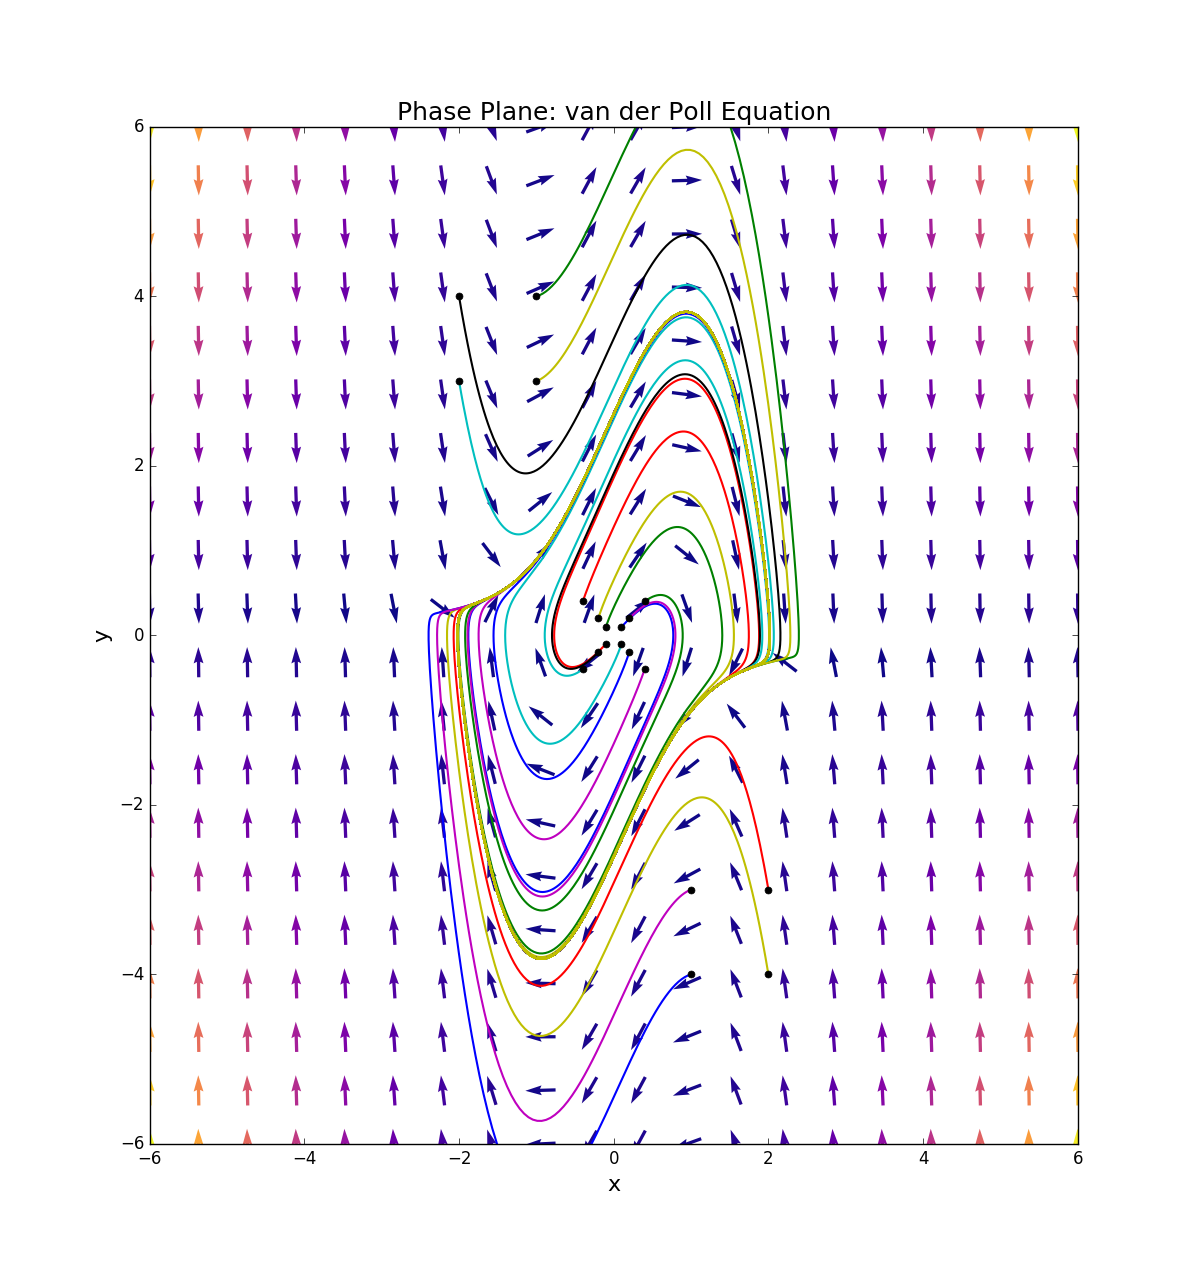
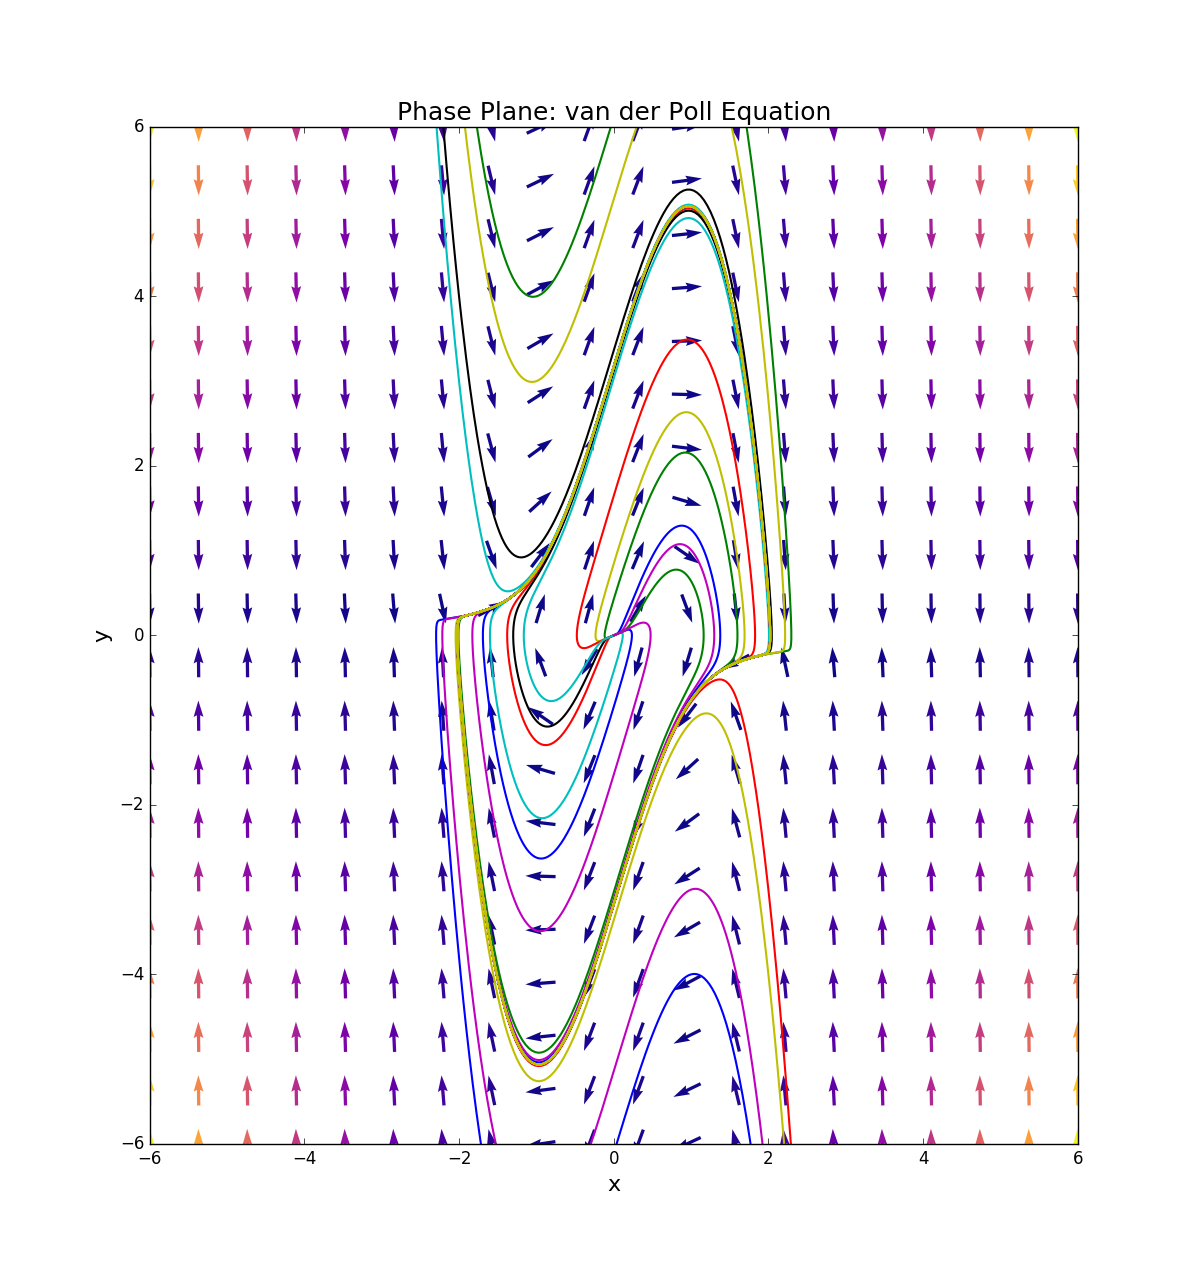
New phase-plane signature.

Changed region(s): [[0.34, 0.0921, 0.68, 0.8899], [0.4327, 0.2762, 0.4637, 0.3068]]

diff --git a/dynplt/phase_plane.py b/dynplt/phase_plane.py
@@ -5,50 +5,44 @@ Phase plane plot function
 import numpy as np
 import matplotlib.pyplot as plt
 import matplotlib.cm as cm
-import scipy.integrate
 
 __all__ = [
     'phase_plane'
 ]
 
 
-def phase_plane(func,  initial_conditions,
-                simulation_times, limits,
-                args=(), odeint=scipy.integrate.odeint,
-                nvectors=[20, 20], ax=None):
+def phase_plane(odeobject, initial_conditions, display_window,
+                nvectors=[20, 20], calculation_window=None,
+                solution_direction='both',
+                markinitialpoint=False, ax=None):
     """
     Plot vector field and solution curves in the phase plane
     for planar autonomous systems.
 
     Parameters
     ----------
-    func : callable
-        Function that relates the point and the derivative for a
-        planar autonomous systems ``dx/dt = func(x)``.
+    odeobject : callable
+        A generic interface class to numeric integrators, defined
+        in scipy.integrate.
     initial_conditions : array of arrays
         A list containing a set of initial conditions. For each
         of these initial conditions the system will be simulated
         and plot in the phase plane
-    simulation_time : array of arrays
-        A list containing simulation times. One for each one of
-        of the initial conditions. Each simulation time is a
-        sequence of time points for which to solve for y. The
-        initial value point should be the first element of
-        this sequence.
-    limits : 4 elements array_like
-        A list containing 4 elements, respectively: lower limit
-        for x axis, upper limit for x axis, lower limit for y axis
-        and upper limit for x axis.
-    args : tuple, optional
-        Extra arguments to pass to function ``func``.
-    odeint : callable, optional
-        Solver for ordinary differential equations. Solvers should
-        have the signature ``odeint(auxfunc, x0, t,)`` and should
-        work with non-autonomous systems ``auxfunc(x, t)``. By
-        default uses ``scipy.integrate.odeint``.
-    nvectors : 2 elements array_like, optional
+    display_window : array_like
+        Contain 4 elements, respectively, the  lower limit and upper
+        limits of x and y axis.
+    nvectors : array_like, optional
         A list containing 2 elements, the number of columns and rows
         on the vector field grid. By default [20, 20].
+    calculation_window : array_like, optional
+        Contain 4 elements, respectively, the  lower limit and upper
+        limits of x and y axis. By default, 4 times the display window
+        in every direction.
+    solution_direction : str, optional
+        The solution can go 'foward', 'backward' or 'both'. The default
+        is 'both'
+    markinitialpoint : boolean, optional
+        If True mark the initial point on the plot. By default it is False.
     ax : matplotlib axis object, optional
         Axis in which the phase plane will be plot. If none is provided
         create a new one.
@@ -58,25 +52,30 @@ def phase_plane(func,  initial_conditions,
     if ax is None:
         _, ax = plt.subplots()
 
-    # check initial_conditions and simulation_time
-    if len(simulation_times) != len(initial_conditions):
-        raise ValueError("Simulation time and initial_conditions should \
-        have the same dimensions along the axis 0.")
+    # If no calculation window is provided, define one from display_window
+    if calculation_window is None:
+        x1mean = np.mean(display_window[:2])
+        x2mean = np.mean(display_window[2:])
+        x1min = display_window[0]
+        x1max = display_window[1]
+        x2min = display_window[2]
+        x2max = display_window[3]
+        calculation_window = [(x1min-x1mean)*4+x1mean,
+                              (x1max-x1mean)*4+x1mean,
+                              (x2min-x2mean)*4+x2mean,
+                              (x2max-x2mean)*4+x2mean]
 
-    # define auxiliar function
-    def auxfunc(x, t):
-        return func(x, *args)
+    # Define lower and upper limits from calculation_window
+    lower_limit = [calculation_window[0], calculation_window[2]]
+    upper_limit = [calculation_window[1], calculation_window[3]]
 
-    # simulate and plot the solutions for each one of the initial conditions
-    for i in range(len(simulation_times)):
-        state = odeint(auxfunc, initial_conditions[i], simulation_times[i])
-        ax.plot(state[:, 0], state[:, 1], linewidth=1.5)
-        ax.plot(initial_conditions[i][0], initial_conditions[i][1],
-                marker='o', markersize=5, color='black')
+    # Get function from odeobject object
+    def func(z):
+        return odeobject.f(0, z, *odeobject.f_params)
 
     # Generate grid of points
-    x = np.linspace(limits[0], limits[1], nvectors[0])
-    y = np.linspace(limits[2], limits[3], nvectors[1])
+    x = np.linspace(display_window[0], display_window[1], nvectors[0])
+    y = np.linspace(display_window[2], display_window[3], nvectors[1])
     x, y = np.meshgrid(x, y)
 
     # Compute vector field
@@ -85,7 +84,7 @@ def phase_plane(func,  initial_conditions,
     for i in range(x.shape[0]):
         for j in range(x.shape[1]):
             state2d = np.array([x[i, j], y[i, j]])
-            state2d_derivative = func(state2d, *args)
+            state2d_derivative = func(state2d)
             xv[i, j] = state2d_derivative[0]
             yv[i, j] = state2d_derivative[1]
 
@@ -96,6 +95,44 @@ def phase_plane(func,  initial_conditions,
 
     # Plot vector Field
     ax.quiver(x, y, xv, yv, norm, pivot='mid', units='xy', cmap=cm.plasma)
-    ax.axis(limits)
+
+
+    # Set simulation parameters
+    t1 = 100*1/np.mean(norm)*(np.max(upper_limit)-np.min(lower_limit))
+    dt = 1/100*1/np.mean(norm)*(np.max(upper_limit)-np.min(lower_limit))
+
+    for x0 in initial_conditions:
+        foward = []
+        backward = []
+        if solution_direction is'foward' or solution_direction is'both':
+            odeobject.set_initial_value(x0)
+            while odeobject.successful() and odeobject.t < t1:
+                xnext = odeobject.integrate(odeobject.t+dt)
+                if np.logical_or(xnext < lower_limit,
+                                 xnext > upper_limit).any():
+                    break
+                foward.append(xnext)
+
+        if solution_direction is 'backward' or solution_direction is'both':
+            odeobject.set_initial_value(x0)
+            while odeobject.successful() and odeobject.t > -1*t1:
+                xnext = odeobject.integrate(odeobject.t-dt)
+                if np.logical_or(xnext < lower_limit,
+                                 xnext > upper_limit).any():
+                    break
+                backward.append(xnext)
+
+        if markinitialpoint:
+            ax.plot(x0[0], x0[1], marker='o', markersize=5, color='black')
+
+        x0 = np.reshape(x0, (-1, 2))
+        foward = np.reshape(foward, (-1, 2))
+        backward = np.reshape(backward[::-1], (-1, 2))
+
+        x = np.concatenate((backward, x0, foward), axis=0)
+
+        ax.plot(x[:, 0], x[:, 1], linewidth=1.5)
+
+    ax.axis(display_window)
 
     return

diff --git a/dynplt/cobweb.py b/dynplt/cobweb.py
@@ -40,17 +40,17 @@ def cobweb(func, initial_conditon, nsteps, limits, args=(), ax=None):
     x = np.linspace(limits[0], limits[1], 1000)
     y = list(map(lambda z: func(z, *args), x))
 
-    plt.plot(x, x, linewidth=1.5, color='black')
-    plt.plot(x, y, linewidth=1.5, color='blue')
+    ax.plot(x, x, linewidth=1.5, color='black')
+    ax.plot(x, y, linewidth=1.5, color='blue')
 
     # Interate and plot cobweb segments
     startpoint = initial_conditon
     for i in range(nsteps):
         endpoint = func(startpoint, *args)
-        plt.plot([startpoint, startpoint, endpoint],
+        ax.plot([startpoint, startpoint, endpoint],
                  [startpoint, endpoint, endpoint],
-                 color='red',
-                 marker='o',
-                 markersize=3,
-                 markerfacecolor='black')
+                color='red',
+                marker='o',
+                markersize=3,
+                markerfacecolor='black')
         startpoint = endpoint

diff --git a/examples/example_phase_plane.py b/examples/example_phase_plane.py
@@ -1,10 +1,11 @@
 from dynplt import phase_plane
 import numpy as np
 import matplotlib.pyplot as plt
+from scipy.integrate import ode
 
 
 # Van der Poll oscilator
-def vanderpoll(x, mu):
+def vanderpoll(t, x, mu):
     dx = np.zeros(2)
     dx[0] = x[1]
     dx[1] = mu*(1-x[0]**2)*x[1]-x[0]
@@ -32,15 +33,17 @@ initial_conditions = [[0.1, 0.1],
                       [-2, 3],
                       [1, -3],
                       [-1, 3]]
-simulation_times = [np.linspace(0, 100, 10000)]*len(initial_conditions)
-mu = 2
+
+mu = 3
+
+# Define ODE solver
+r = ode(vanderpoll).set_f_params(mu).set_integrator('lsoda')
 
 # Create axis
 _, ax = plt.subplots()
 
 # plot_phase_plane function
-phase_plane(vanderpoll, initial_conditions, simulation_times,
-            [-6, 6, -6, 6], args=(mu,), ax=ax)
+phase_plane(r, initial_conditions, [-6, 6, -6, 6], solution_direction='both', ax=ax)
 
 ax.set_xlabel("x", fontsize=16)
 ax.set_ylabel("y", fontsize=16)
